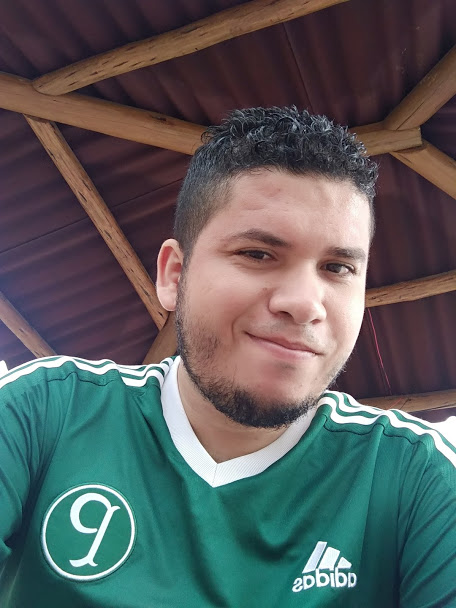
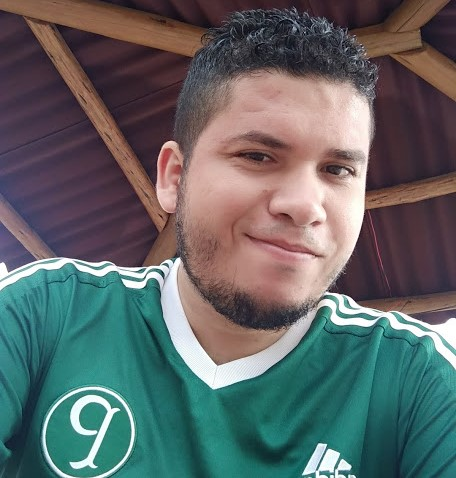
Centralização dos elementos

diff --git a/index.html b/index.html
@@ -8,16 +8,19 @@
     <link rel="stylesheet" href="style.css">
   </head>
   <body>
-    <h1>MINHA PRIMEIRA PÁGINA WEB</h1>
-    <img src="mb.jpg" alt="Foto de Perfil">
-    <p>
-      Trabalho com TI na área de infra e suporte e meu objetivo é migrar e me capacitar na área de desenvolvimento web cada vez mais para  atuar no mercado de desenvolvimento.
-    </p>
-    <h3>Contato:</h3>
-    <ul>
-      <li>Telefone: 71 99183 6659</li>
-      <li>E-mail: contato@mateusbrito.me</li>
-      <li>Instagram: <a target="_blank" href="http://instagram.com/mateus.brito27">clique aqui</a></li>
-    </ul>
+    <header class="intro">
+      <h1 class="intro">MINHA PRIMEIRA PÁGINA WEB</h1>
+      <img src="mb.jpg" alt="Foto de Perfil">
+      <p>
+        Trabalho com TI na área de infra e suporte e meu objetivo é migrar e me capacitar na área de desenvolvimento web cada vez mais para  atuar no mercado de desenvolvimento.
+      </p>
+      <h3>Contato:</h3>
+      <ul>
+        <li>Telefone: 71 99183 6659</li>
+        <li>E-mail: contato@mateusbrito.me</li>
+        <li>Instagram: <a target="_blank" href="http://instagram.com/mateus.brito27">clique aqui</a></li>
+      </ul>
+    </header>
+
   </body>
 </html>

diff --git a/style.css b/style.css
@@ -1,3 +1,13 @@
 body{
   background-color: #38ada9;
 }
+.intro{
+  color: white;
+  text-align: center;
+  margin-top: 7%;
+}
+.intro img{
+  border-radius: 50%;
+  max-width: 15%;
+  max-height: 15%;
+}
